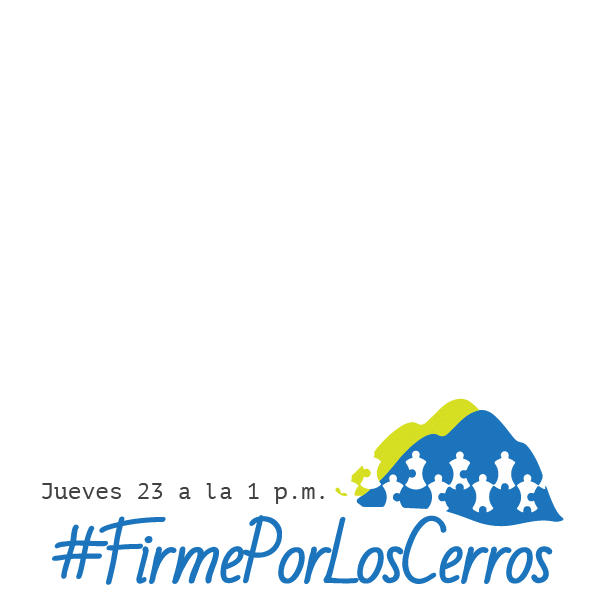
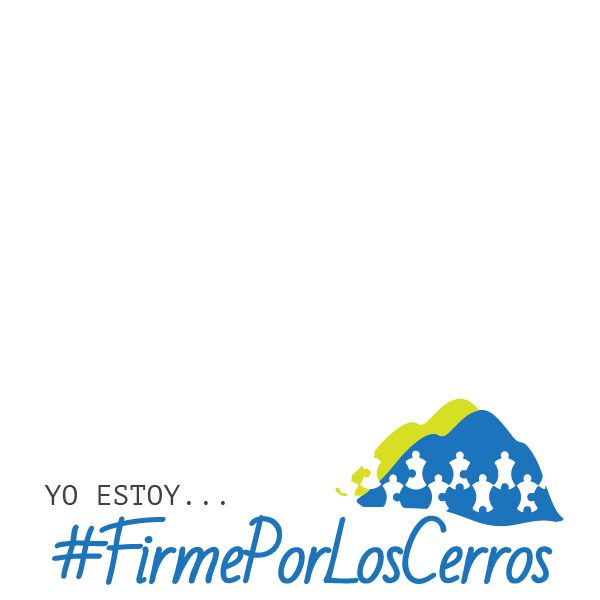
various

Changed region(s): [[0.06, 0.78, 0.39, 0.84], [0.42, 0.81, 0.54, 0.84]]

diff --git a/www/js/facebook.js b/www/js/facebook.js
@@ -24,7 +24,7 @@ function sharePicture(authToken) {
     var fd = new FormData();
     fd.append("access_token",authToken);
     fd.append("source", blob);
-    fd.append("message", cause.shareText + (cause.event ? 'Ver más en: ' + cause.event.url : '') + ' Marca tu foto en http://elactivista.elchapin.co/causas/' + cause.id);
+    fd.append("message", cause.shareText + (cause.event ? '. Ver más en: ' + cause.event.url : '') + '. Marca tu foto en http://elactivista.elchapin.co/causas/' + cause.id);
     
     try {
     

diff --git a/www/db.php b/www/db.php
@@ -54,11 +54,6 @@ $causes = array (
             'label' => 'Manifiesto por los Cerros',
             'title' => 'Deja con tus datos y se un firmante del compromiso',
             'url' => 'https://docs.google.com/forms/d/17GIbBl1RShiNoDJtoyebIKhfHrkNxDYK15djFTvAmXo/viewform'
-        ),
-        'event' => array (
-            'url' => 'https://www.facebook.com/events/146468212428096/',
-            'title' => 'Nos vemos el jueves 23 a la 1 p.m. frente al Tribunal Administrativo de Cundinamarca en una Meditación Colectiva por los Cerros',
-            'image' => '23junio.png'
         )
     ),
     array (
